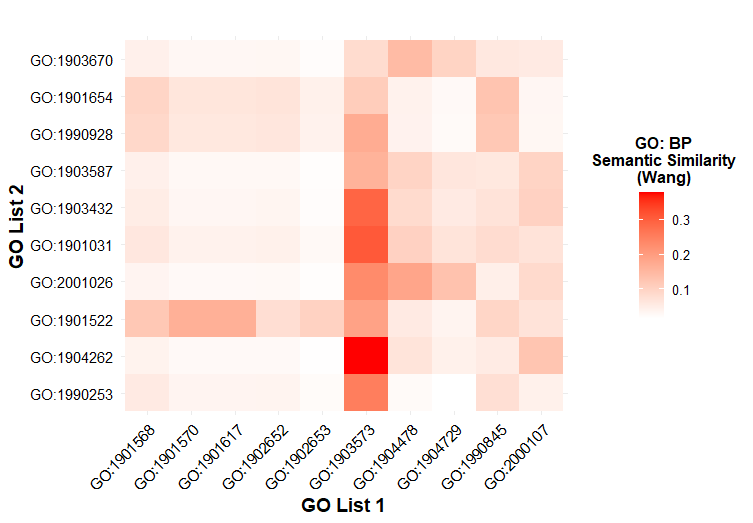
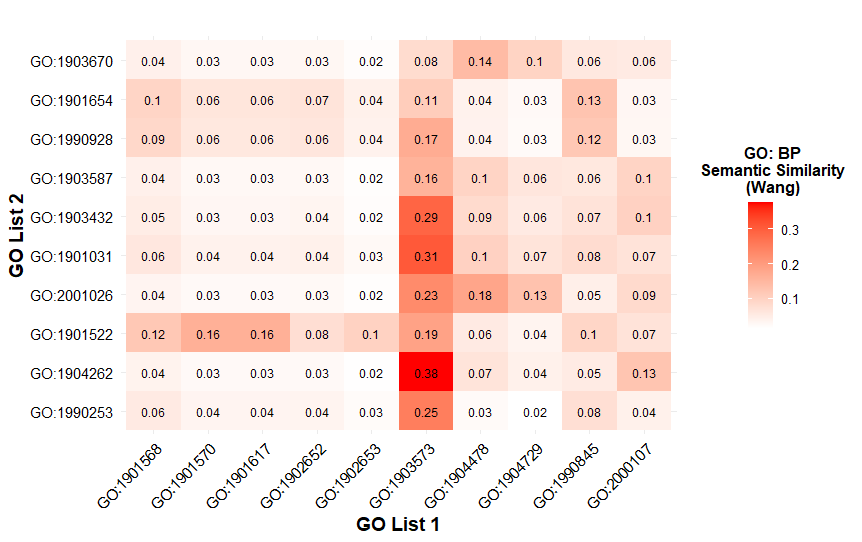
Update go_similarity_heatmap function

Changed region(s): [[0.0, 0.0612, 0.9774, 0.979], [0.2138, 0.153, 0.3971, 0.2141], [0.6109, 0.3977, 0.6414, 0.4283]]

diff --git a/README.md b/README.md
@@ -281,7 +281,7 @@ go_similarity_heatmap(go_list1 = GO_BP1$ID, go_list2 = GO_BP2$ID,
                       ontology = "BP", method = "Wang",
                       orgdb = "org.Hs.eg.db",
                       xlab = "GO List 1", ylab = "GO List 2",
-                      main = "", cex = 10)
+                      main = "", cex = 10, values = T, cex_values = 3)
 ```
 ![Heatmap](inst/images/heatmap.png)
 
